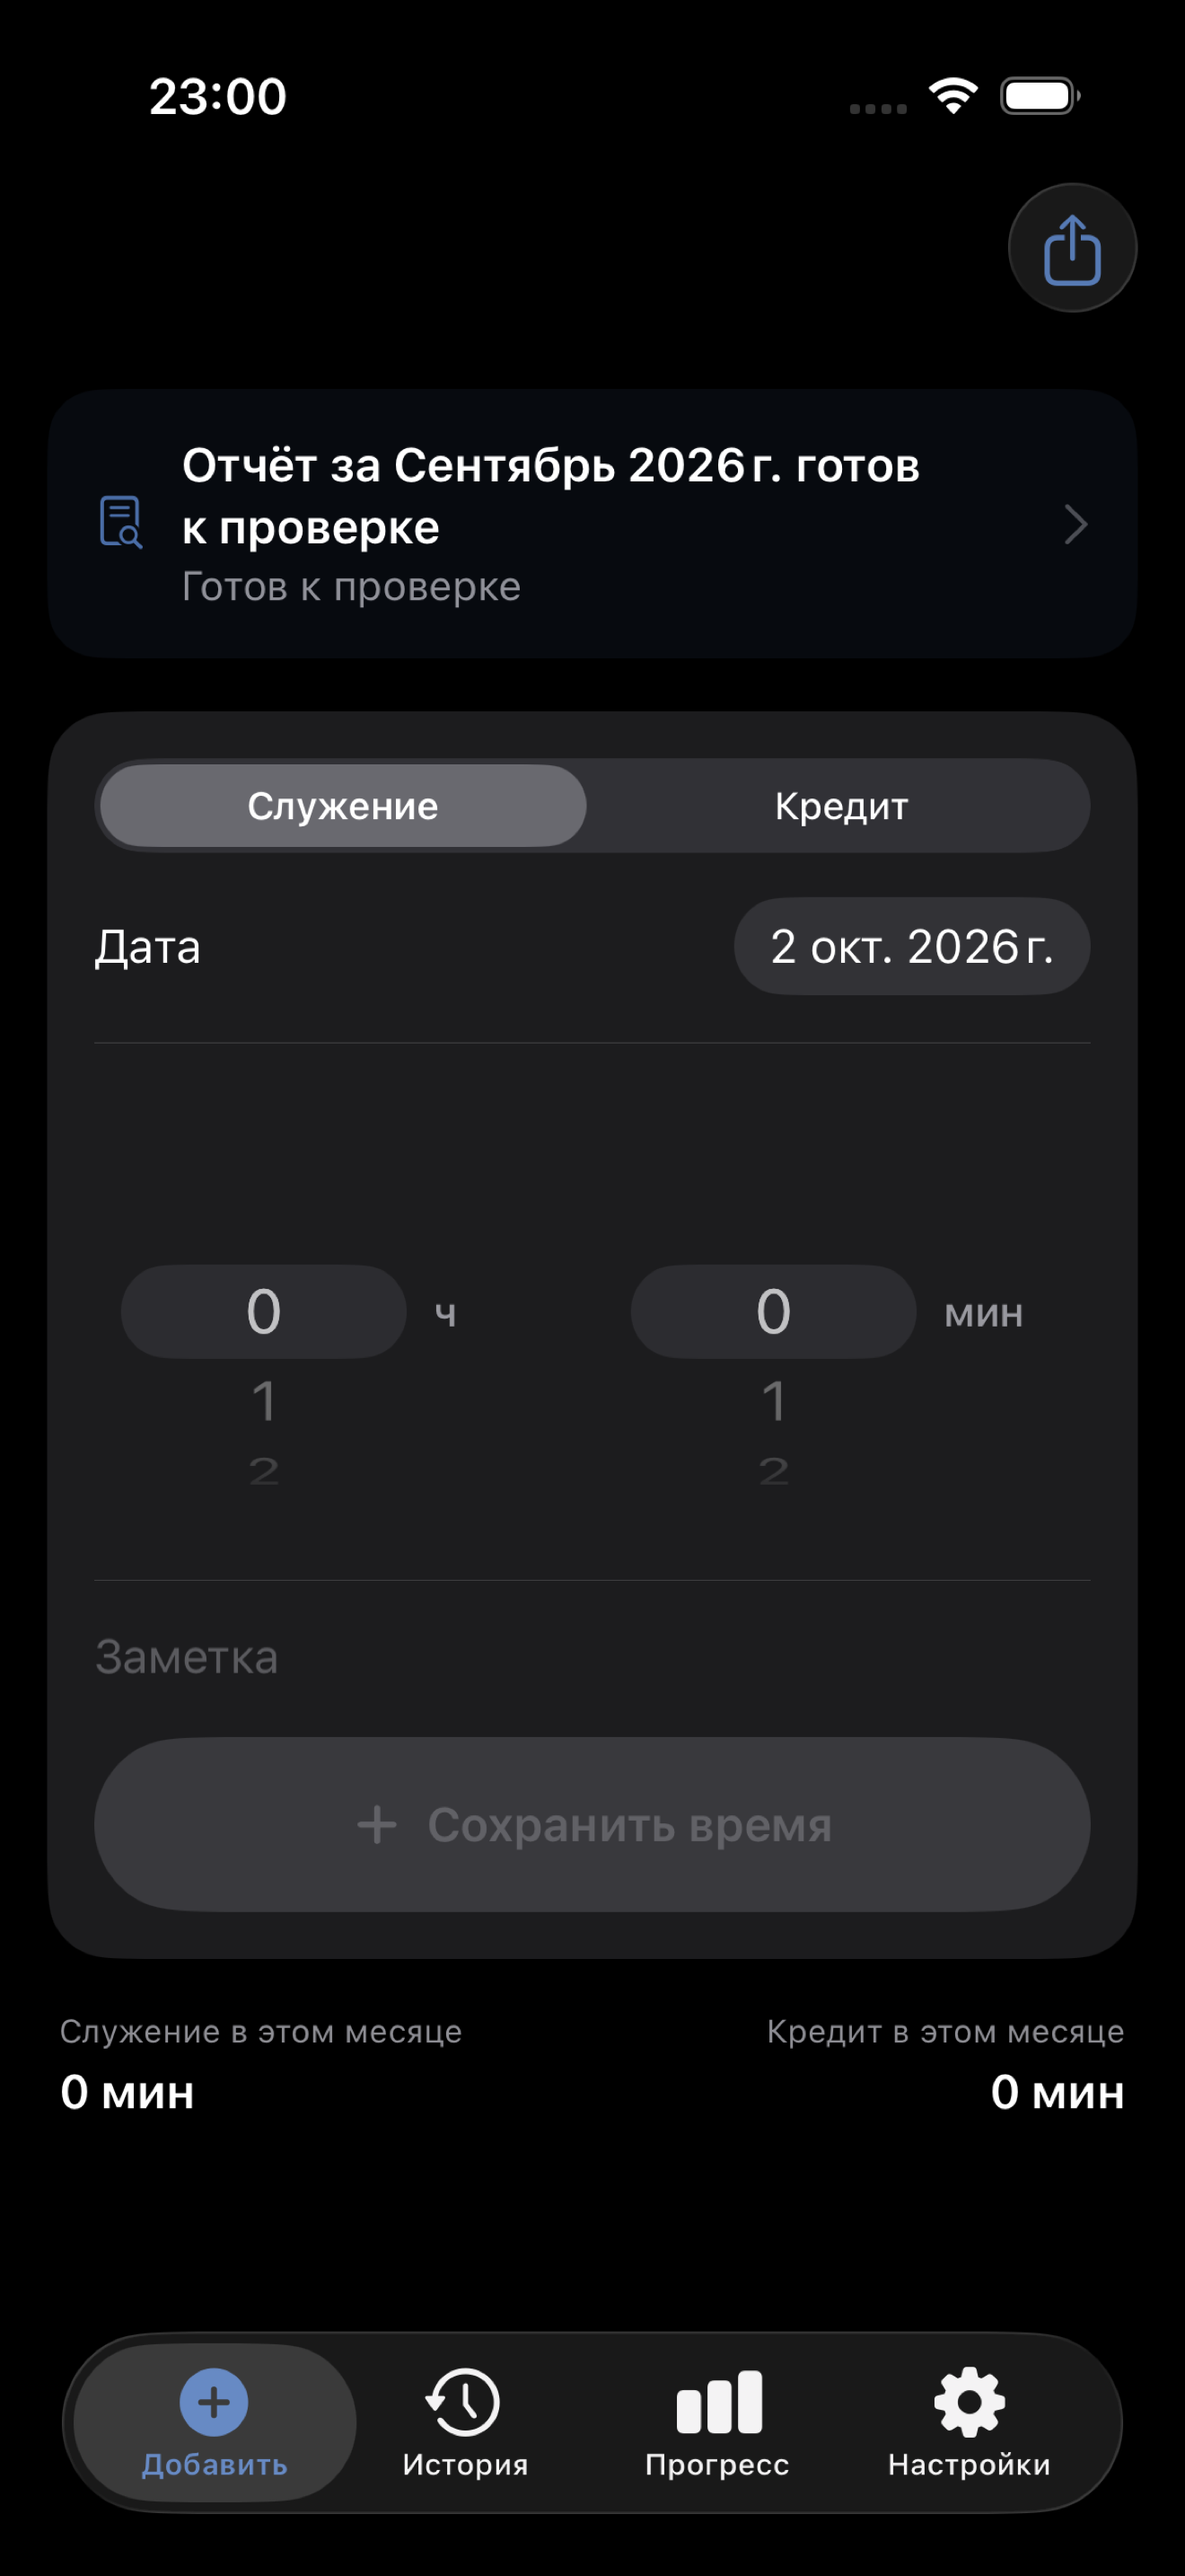
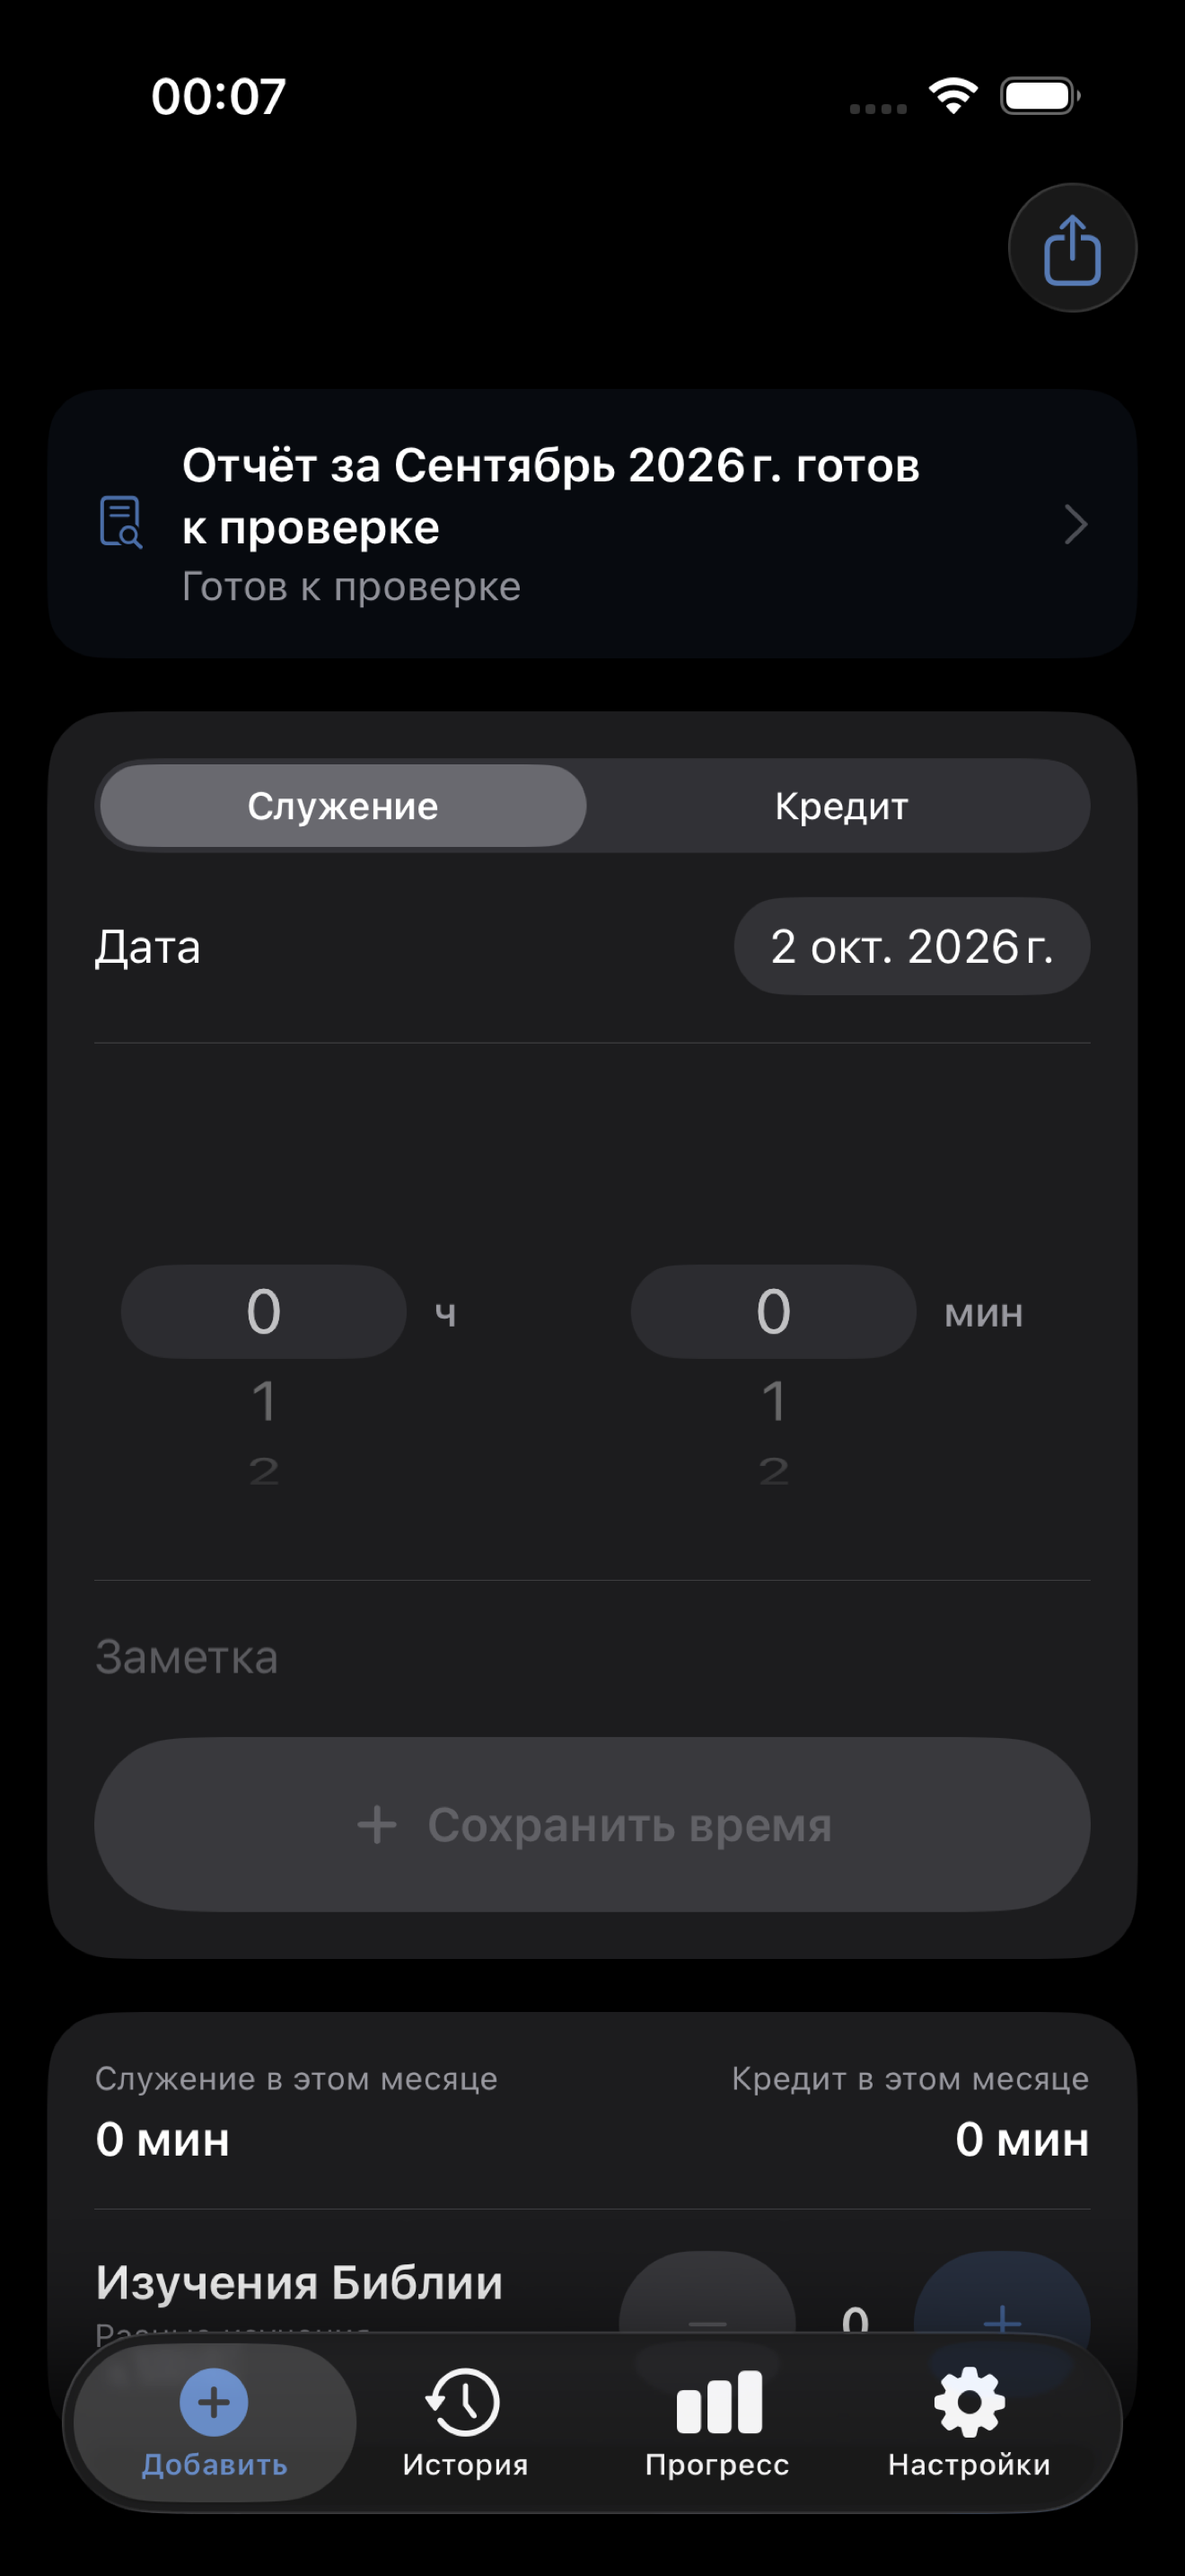
Refresh App Store screenshot deck

Changed region(s): [[0.0311, 0.7758, 0.9629, 0.931], [0.1242, 0.031, 0.2485, 0.0621]]

diff --git a/HourleafUITests/HourleafAppStoreScreenshotTests.swift b/HourleafUITests/HourleafAppStoreScreenshotTests.swift
@@ -9,6 +9,7 @@ final class HourleafAppStoreScreenshotTests: XCTestCase {
     func testCaptureLocalizedIPhoneStoreScreenshots() {
         for locale in StoreLocale.allCases {
             captureQuickEntry(locale)
+            captureBibleStudies(locale)
             captureHistoryCalendar(locale)
             captureMonthlyReport(locale)
         }
@@ -18,6 +19,22 @@ final class HourleafAppStoreScreenshotTests: XCTestCase {
         let app = launch(locale: locale)
         XCTAssertTrue(app.buttons["saveEntryButton"].waitForExistence(timeout: 5))
         keepScreenshot(named: "\(locale.folder)_01_quick-entry", from: app)
+        app.terminate()
+    }
+
+    private func captureBibleStudies(_ locale: StoreLocale) {
+        let app = launch(locale: locale, bibleStudies: true)
+        let label = app.staticTexts["bibleStudyLabel"]
+        let decrease = app.buttons["decreaseBibleStudyCountButton"]
+        let count = app.staticTexts["bibleStudyCount"]
+        let increase = app.buttons["increaseBibleStudyCountButton"]
+        XCTAssertTrue(
+            scrollUntilFullyVisible([label, decrease, count, increase], in: app),
+            "The complete Bible-study counter must be visible in the Store capture."
+        )
+        XCTAssertEqual(count.value as? String, "1")
+
+        keepScreenshot(named: "\(locale.folder)_02_bible-studies", from: app)
         app.terminate()
     }
 
@@ -32,20 +49,30 @@ final class HourleafAppStoreScreenshotTests: XCTestCase {
         app.buttons["historyCalendarPreviousMonthButton"].tap()
         XCTAssertTrue(app.buttons["historyCalendarDay_2026-09-15"].waitForExistence(timeout: 5))
 
-        keepScreenshot(named: "\(locale.folder)_02_history-calendar", from: app)
+        keepScreenshot(named: "\(locale.folder)_03_history-calendar", from: app)
         app.terminate()
     }
 
     private func captureMonthlyReport(_ locale: StoreLocale) {
-        let app = launch(locale: locale, seeded: true)
+        let app = launch(locale: locale, seeded: true, bibleStudies: true)
         app.tabBars.buttons.element(boundBy: 2).tap()
-        XCTAssertTrue(app.staticTexts["reportPreview"].waitForExistence(timeout: 5))
+        let preview = app.staticTexts["reportPreview"]
+        XCTAssertTrue(preview.waitForExistence(timeout: 5))
+        XCTAssertTrue(preview.label.contains(locale.bibleStudyReportLine))
+        XCTAssertTrue(
+            scrollUntilFullyVisible([app.staticTexts["reportLifecycleState"], preview], in: app),
+            "The report state and complete preview must be visible in the Store capture."
+        )
 
-        keepScreenshot(named: "\(locale.folder)_03_monthly-report", from: app)
+        keepScreenshot(named: "\(locale.folder)_04_monthly-report", from: app)
         app.terminate()
     }
 
-    private func launch(locale: StoreLocale, seeded: Bool = false) -> XCUIApplication {
+    private func launch(
+        locale: StoreLocale,
+        seeded: Bool = false,
+        bibleStudies: Bool = false
+    ) -> XCUIApplication {
         let app = XCUIApplication()
         app.launchArguments = [
             "-uiTesting",
@@ -61,9 +88,43 @@ final class HourleafAppStoreScreenshotTests: XCTestCase {
         if seeded {
             app.launchArguments.append("-seedUITestData")
         }
+        if bibleStudies {
+            app.launchArguments.append("-seedBibleStudyUITest")
+        }
         app.launch()
         XCTAssertTrue(app.tabBars.firstMatch.waitForExistence(timeout: 5))
         return app
+    }
+
+    private func scrollUntilFullyVisible(
+        _ elements: [XCUIElement],
+        in app: XCUIApplication
+    ) -> Bool {
+        let tabBar = app.tabBars.firstMatch
+        guard tabBar.waitForExistence(timeout: 5) else { return false }
+
+        for _ in 0..<10 {
+            let visibleTop = app.windows.firstMatch.frame.minY + 24
+            let visibleBottom = tabBar.frame.minY - 24
+            if elements.allSatisfy({ element in
+                element.exists
+                    && element.isHittable
+                    && element.frame.minY >= visibleTop
+                    && element.frame.maxY <= visibleBottom
+            }) {
+                return true
+            }
+            app.swipeUp(velocity: .slow)
+        }
+
+        let visibleTop = app.windows.firstMatch.frame.minY + 24
+        let visibleBottom = tabBar.frame.minY - 24
+        return elements.allSatisfy { element in
+            element.exists
+                && element.isHittable
+                && element.frame.minY >= visibleTop
+                && element.frame.maxY <= visibleBottom
+        }
     }
 
     private func keepScreenshot(named name: String, from app: XCUIApplication) {
@@ -100,6 +161,14 @@ private enum StoreLocale: CaseIterable {
         case .english: "en-US"
         case .russian: "ru"
         case .ukrainian: "uk"
+        }
+    }
+
+    var bibleStudyReportLine: String {
+        switch self {
+        case .english: "Bible studies: 1"
+        case .russian: "Изучения Библии: 1"
+        case .ukrainian: "Вивчення Біблії: 1"
         }
     }
 }

diff --git a/Hourleaf/App/HourleafApp.swift b/Hourleaf/App/HourleafApp.swift
@@ -502,6 +502,11 @@ final class HourleafAppLauncher: ObservableObject {
             } else {
                 await model.saveSettings(settings)
             }
+            if arguments.contains("-seedBibleStudyUITest") {
+                let previous = model.currentMonth.advanced(by: -1, calendar: .hourleaf)
+                _ = await model.updateBibleStudyCount(1, for: previous)
+                _ = await model.updateBibleStudyCount(1, for: model.currentMonth)
+            }
 #if DEBUG
             // UI tests use an in-memory Core Data store on every launch while
             // intentionally preserving the disposable quick-surface sidecar.

diff --git a/Hourleaf/UI/QuickEntryView.swift b/Hourleaf/UI/QuickEntryView.swift
@@ -251,6 +251,7 @@ struct QuickEntryView: View {
         VStack(alignment: .leading, spacing: 2) {
             Text("quick.bible_studies")
                 .font(.headline)
+                .accessibilityIdentifier("bibleStudyLabel")
             Text("quick.bible_studies_hint")
                 .font(.caption)
                 .foregroundStyle(.secondary)

diff --git a/AppStore/marketing-screenshots/README.md b/AppStore/marketing-screenshots/README.md
@@ -8,11 +8,13 @@ The upstream copyright notice is preserved in
 
 ## Preview
 
-| Quick entry | Calendar | Monthly report |
-|---|---|---|
-| ![Hourleaf quick entry](exports/iphone-6.9/en-US/01-hero.png) | ![Hourleaf calendar](exports/iphone-6.9/en-US/02-device-bottom.png) | ![Hourleaf monthly report](exports/iphone-6.9/en-US/03-device-top.png) |
+| Quick entry | Bible studies |
+|---|---|
+| ![Hourleaf quick entry](exports/iphone-6.9/en-US/01-hero.png) | ![Hourleaf Bible studies](exports/iphone-6.9/en-US/02-device-top.png) |
+| Calendar | Monthly report |
+| ![Hourleaf calendar](exports/iphone-6.9/en-US/03-device-bottom.png) | ![Hourleaf monthly report](exports/iphone-6.9/en-US/04-device-top.png) |
 
-The canonical deck has three iPhone slides in `en-US`, `ru`, and `uk`. It uses
+The canonical deck has four iPhone slides in `en-US`, `ru`, and `uk`. It uses
 reviewed Release-build captures from `../screenshots/`; it contains no personal
 ledger data, account details, or generated app UI. Apple Watch captures remain
 in Apple's separate Watch screenshot section.
@@ -44,7 +46,7 @@ Before upload, run:
 bun run verify:exports
 ```
 
-The guard requires all nine files to be opaque RGB PNGs at exactly 1320×2868.
+The guard requires all twelve files to be opaque RGB PNGs at exactly 1320×2868.
 Every Store slide shows Hourleaf in use; text-only artwork is intentionally not
 part of the release deck.
 

diff --git a/AppStore/screenshots/README.md b/AppStore/screenshots/README.md
@@ -7,11 +7,12 @@ identifiers.
 
 ## iPhone 6.9-inch
 
-Each localization contains three `1320 x 2868` PNG files in this order:
+Each localization contains four `1320 x 2868` PNG files in this order:
 
 1. `01-quick-entry.png`
-2. `02-history-calendar.png`
-3. `03-monthly-report.png`
+2. `02-bible-studies.png`
+3. `03-history-calendar.png`
+4. `04-monthly-report.png`
 
 Directories: `en-US/iphone-6.9`, `ru/iphone-6.9`, and `uk/iphone-6.9`.
 
